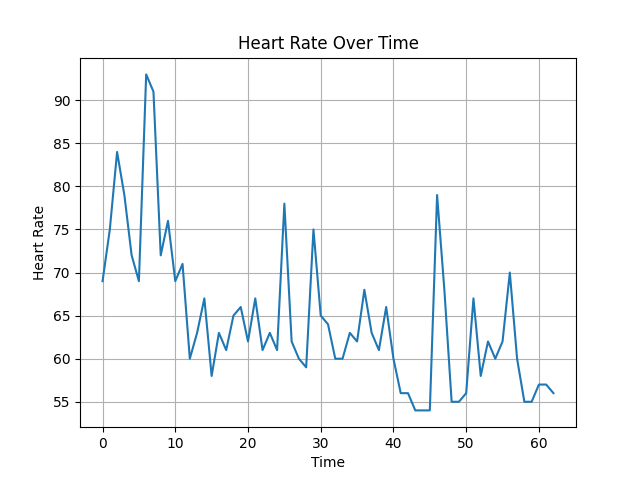
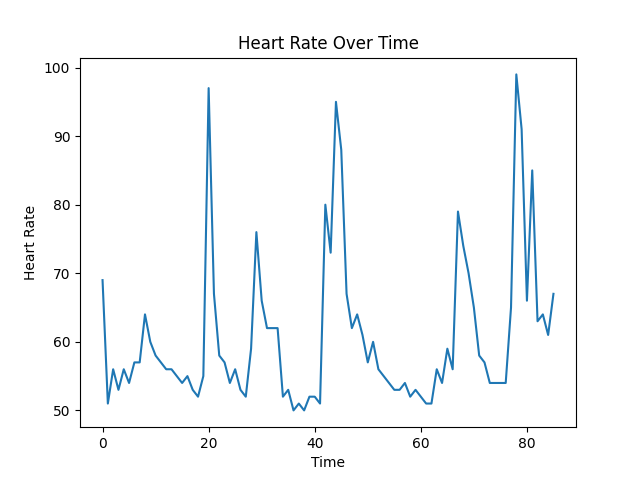
final push

diff --git a/main.py b/main.py
@@ -16,21 +16,21 @@ def run(filename: str) -> None:
 
     Args:
         filename (str): The path to the data file (e.g., 'data/phase0.txt').
-
+    
     Returns:
         float, float, float: You will return the average, max, and standard deviation
-    """ 
+    """
     data = []
 
     # open file using file I/O and read it into the `data` list
-    with open(filename, 'r') as file:
-        for line in file:
-            data.append(line.strip())
-    file.close()
+    file = open(filename)
+    for line in file:
+        data.append(line.strip())
+    
     
    # Use `filter_nondigits` to clean the data and remove invalid entries, save the output to a new variable
     new_data = filter_nondigits(data)
-    print (new_data)
+
     # Use the `new_data` variable to plot the data using matplotlib
     # and save the plot to the "images" folder as "phase0.png"
        
@@ -41,8 +41,14 @@ def run(filename: str) -> None:
     plt.ylabel('Heart Rate')
     plt.title('Heart Rate Over Time')
     plt.grid(True)
+    plt.xlim(0, len(new_data) - 1)  # Set x-axis limits to match the data length
+    plt.ylim(min(new_data) - 5, max(new_data) + 5)  # Add some padding to y-axis limits
     # Ensure the images directory exists before saving
     plt.savefig('images/phase0.png')
+    plt.clf()  # Clear the current figure to avoid overlapping plots
+    plt.close()  # Close the current figure to free up memory
+   
+
 
     # calculate the average, maximum, and standard deviation of this file using the functions you've wrote
     avg_hr = (average(new_data))
@@ -53,9 +59,11 @@ def run(filename: str) -> None:
     max_hr = (max(new_data))
     # calculate the standard deviation of the heart rate data
     # using the standard_deviation function you've written
-    std_dev_hr = (round(standard_deviation(new_data)))
+    std_dev_hr = (standard_deviation(new_data))
     # print the values to the console
-    
+    print(f"Average Heart Rate: {avg_hr:.2f}")
+    print(f"Maximum Heart Rate: {max_hr:.2f}")
+    print(f"Standard Deviation of Heart Rate: {std_dev_hr:.2f}")    
     
    
 
@@ -65,5 +73,10 @@ def run(filename: str) -> None:
 
 if __name__ == "__main__":
     print(run("data/phase0.txt"))
+    print(run("data/phase1.txt"))
+    print(run("data/phase2.txt"))
+    print(run("data/phase3.txt"))
+
+
 
 

diff --git a/metrics.py b/metrics.py
@@ -30,10 +30,13 @@ print(average(result))
 
 def maximum(data: list) -> float:
     """
-    INSERT DOCSTRING HERE
+    Calculate maximum value of the list.
+
+    Args:
+        data (list[int]): list of integers representing heart rate samples
+    Returns:
+        float: a floating point value representing the maximum of this list
     """
-    pass
-    
     if data == []:
         return []
     maximum_v = 0 
@@ -47,8 +50,12 @@ print(maximum(result))
 
 def variance(data: list) -> float:
     """
-    INSERT DOCSTRING HERE
-    (calculate population variance)
+    Calculate variance value of the list.
+
+    Args:
+        data (list[int]): list of integers representing heart rate samples
+    Returns:
+        float: a floating point value representing the variance of this list
     """
  
     #if data == []:
@@ -68,8 +75,12 @@ print(variance(result))
 
 def standard_deviation(data: list) -> float:
     """
-    INSERT DOCSTRING HERE
-    (calculate population standard deviation)
+    Calculate standard deviation of the list.
+
+    Args:
+        data (list[int]): list of integers representing heart rate samples
+    Returns:
+        float: a floating point value representing the standard deviation of this list
     """
 
     if data == []:
@@ -77,7 +88,7 @@ def standard_deviation(data: list) -> float:
     standard_deviation = 0
     for i in data:
         standard_deviation += (i - average(data)) ** 2
-    return (standard_deviation / len(data)) ** 0.5
+    return round(((standard_deviation / len(data))) ** 0.5,2)
     
 result = [1, 2, 3, 4, 5, 6, 7]
 print(standard_deviation(result))

diff --git a/cleaner.py b/cleaner.py
@@ -1,10 +1,13 @@
 def filter_nondigits(data: list) -> list:
+  
     """
-    INSERT DOCSTRING HERE
+    Filter out non-digit characters from the list of strings.
+
+    Args:
+        data (list[str]): list of strings to be filtered
+    Returns:
+        list[int]: a list of integers containing only the digit characters from the input list
     """
-   
-    
-    
     new_data = []
     for x in data:
        print("orginial line, x: ", x)

diff --git a/writeup.md b/writeup.md
@@ -2,22 +2,22 @@
 
 Take a look at the file labeled `data/phase0.txt`. Why might we have missing values or values that state "NO DATA" in this dataset? While we are currently ignoring these values, what might be the risk of filtering these values out?
 
-[We are ignoring these values because there was no one to state their decision on current information for sleep and excerise. The data could be lost according to no data, it is misplaced and misrepresentation causes these outliers can be calculated as no data.]
+[We are ignoring these values because there was no one to state their decision on current information for sleep and excerise. The data could be lost according to no data, it is misplaced and misrepresented causes there are no reponsive liners.]
 
 ## Question 2
 
 During sleep, we expect maximum heart rate of a phase to be **lower** than the maximum heart rate of all other phases. Observe the visualizations and descriptive statistics that you've calculated. Using these findings, in which phase does sleep occur? Mention numerical details that back your findings.
 
-[Phase 0,1,2 is where the sleep is occured more in these findings because there were misrepresentation of the no data recorded.]
+[Out of all the phases, Phase 0 has the lowest maximum heart rate at 93 range. Because the average and standard deviation are lower in number at 64.59 and 8.53, we can assume less variablilty in heart rate in this phase 0.]
 
 ## Question 3
 
 During exercise, we expect the maximum heart rate of a phase to be **higher** the maximum heart rate of all other phases. Observe the visualizations and descriptive statistics that you've calculated. Using these findings, in which phase(s) does exercise occur? Mention numerical details that back your findings. 
 
-[Phase 3 is the recorded or no misrepresentation on excerise. The data show a positive correclation and higher than the maximum heart rate than the other phases. Every data has a numerical and sorted number that is not missing according to Phase 0,1,2.]
+[During the higher maximum heart rate, phase 2 is the highest at 117, but the varience is too high with a standard deviation of 13.38. Therefore, Phase 1 is where the excerise happens because there is less variance at 9.9 and our average is higher at 87.3.]
 
 ## Question 4
 
 During regular periods of awake activity, we expect the average heart rate of a phase to be relatively **lower** than the average heart rate of other phases, but we also expect standard deviation to be **higher**. In which phase do we notice this trend?
 
-[Phase 3 has a clean slate data without misrepresenation and the we can see every person calcualted each numerical number without NO Data or empty number.]
+[Assuming the Phase 0 is sleep , phase 1 is excerise, and even though Phase 2 has a higher standard deviation, Phase 3 has average heart rate at 60.65 which is lower than all the phases.]
